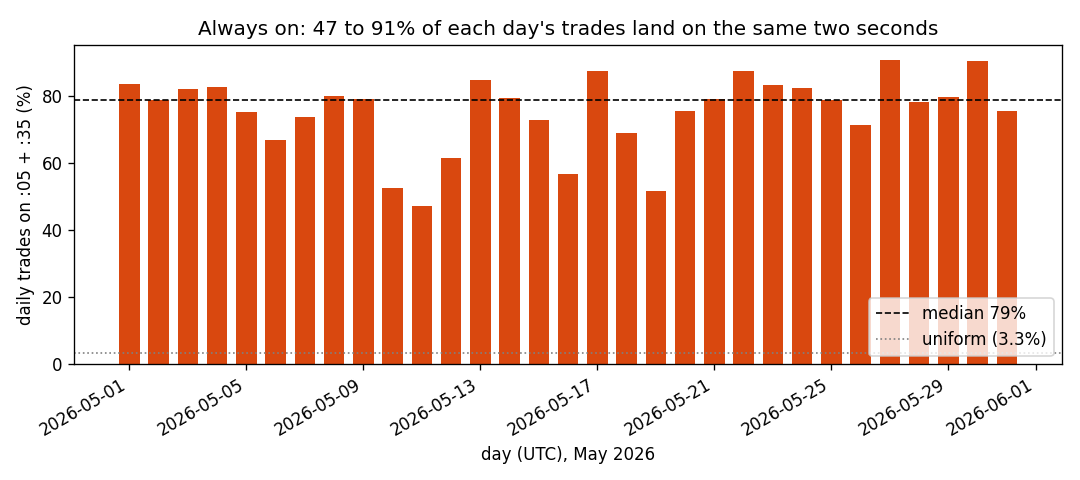
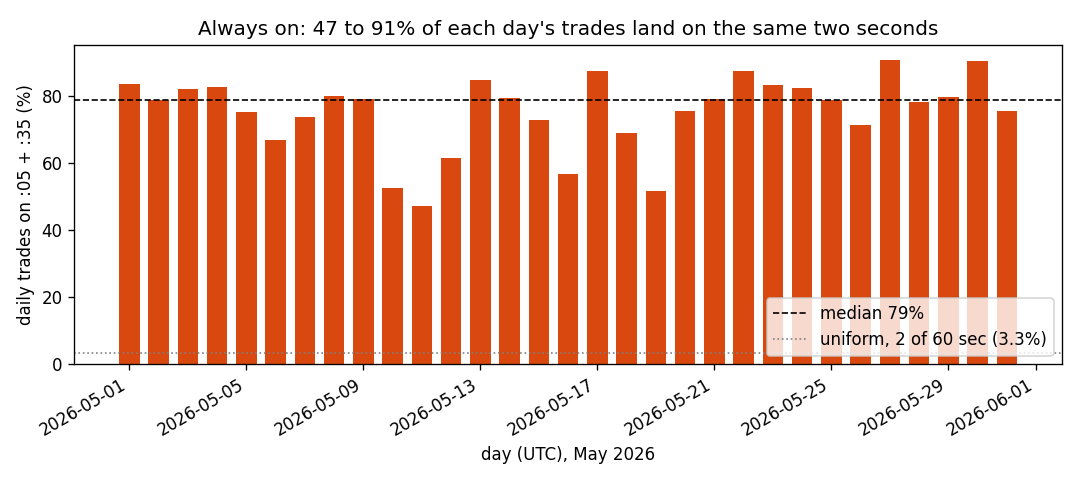
Clarify two-second uniform on persistence chart, map metrics to their application, add comparison with earlier wash cases

Changed region(s): [[0.7028, 0.5938, 0.9778, 0.75]]

diff --git a/content/research/market-health/posts/2026-05-31-cbk-scheduled-wash/index.md b/content/research/market-health/posts/2026-05-31-cbk-scheduled-wash/index.md
@@ -38,14 +38,22 @@ The two seconds are not one trade repeated: they are opposite sides of the book.
 
 The earlier wash cases in this wiki ([Huobi](https://github.com/1712n/dn-institute/tree/main/content/research/market-health/posts/2023-08-14-huobi), [Senso](https://github.com/1712n/dn-institute/tree/main/content/research/market-health/posts/2021-01-05-Senso), and the recent [Bybit WCT and LMWR](https://github.com/1712n/dn-institute/tree/main/content/research/market-health/posts/2026-06-13-bybit-wct-lmwr) post) were caught by a **size** signature: a few repeated clip sizes that dominate the tape and skew the first-digit distribution. CBK leaves no such signature: its single most common trade size is only **0.5% of trades**, and the buy second alone carries **2,287 distinct sizes**, so clip-recurrence and first-digit tests find nothing. The amount is clearly randomised to look organic. What was not randomised is the timing. A fixed-second schedule is trivial to write and, evidently, easy to forget to hide, so time-of-trade catches what volume distribution alone would miss.
 
+Against the wiki's earlier wash cases, the difference is the detection signal:
+
+| | Earlier wash cases (Huobi, Senso, Bybit WCT/LMWR) | CBK/USDT, this post |
+| --- | --- | --- |
+| Footprint | a few repeated clip sizes dominate the tape | randomised sizes, no dominant clip (top size 0.5%) |
+| What catches it | volume distribution and first-digit tests | time-of-trade: 75% of trades on two fixed seconds |
+| Sides | balanced within the repeated clips | strictly split, sells on :05 and buys on :35 |
+
 ## Always on
 
-This is not a one-off burst. Every day of May, between **47% and 91%** of that day's trades (median **79%**) land on :05 and :35, in all **24 hours** of the day. Nor is it confined to May: the same signature runs in **April** (about **67%** of trades on the same two seconds, sells on :05 and buys on :35), so it predates the window. The bot has been running for months, around the clock.
+This is not a one-off burst. Every day of May, between **47% and 91%** of that day's trades (median **79%**) land on :05 and :35, across **every hour of the day**. Nor is it confined to May: the same signature runs in **April** (about **67%** of trades on the same two seconds, sells on :05 and buys on :35), so it predates the window. The bot has been running for months, around the clock.
 
-{{< figure src="persistence.png" alt="daily share of CBK trades on seconds 05 and 35 across May 2026, all bars far above the uniform line" caption="Share of each day's trades on :05 and :35 across May 2026. Never below 47%, median 79%, against a 3.3% uniform expectation." loading="lazy" >}}
+{{< figure src="persistence.png" alt="daily share of CBK trades on seconds 05 and 35 across May 2026, all bars far above the uniform line" caption="Share of each day's trades on :05 and :35 across May 2026. Never below 47%, median 79%, against the 3.3% a uniform clock would put on two of sixty seconds." loading="lazy" >}}
 
 ## How this was measured
 
-All figures use free, key-less data: Bybit's public spot trade dumps (`public.bybit.com/spot/CBKUSDT/`), the full May 2026 month (36,890 trades), one row per executed trade (timestamp, price, size, side). GAIB/USDT, another low-cap Bybit pair with organic trade timing, is used as a control. The metrics map to the DN [market-health family](https://dn.institute/market-health/docs/market-health-metrics/): time-of-trade concentration, buy/sell balance, and volume distribution. The analysis is fully reproducible: the fetch, metric, and figure scripts are in the companion repository [mkzung/cbk-scheduled-wash-analysis](https://github.com/mkzung/cbk-scheduled-wash-analysis), and `verify.py` recomputes and asserts every headline number from the dated dumps above.
+All figures use free, key-less data: Bybit's public spot trade dumps (`public.bybit.com/spot/CBKUSDT/`), the full May 2026 month (36,890 trades), one row per executed trade (timestamp, price, size, side). GAIB/USDT, another low-cap Bybit pair with organic trade timing, is used as a control. The metrics map to the DN [market-health family](https://dn.institute/market-health/docs/market-health-metrics/): time-of-trade concentration (the two-second clustering), buy/sell balance (one side on each second), and volume distribution (the absence of any dominant clip size). The analysis is fully reproducible: the fetch, metric, and figure scripts are in the companion repository [mkzung/cbk-scheduled-wash-analysis](https://github.com/mkzung/cbk-scheduled-wash-analysis), and `verify.py` recomputes and asserts every headline number from the dated dumps above.
 
 A note on scope: this is a single market on a single venue over one month, read against a control rather than a labelled ground truth. The reading is the pattern, a fixed-clock two-sided self-wash that prints volume without taking a position, not an attribution of who placed the orders.